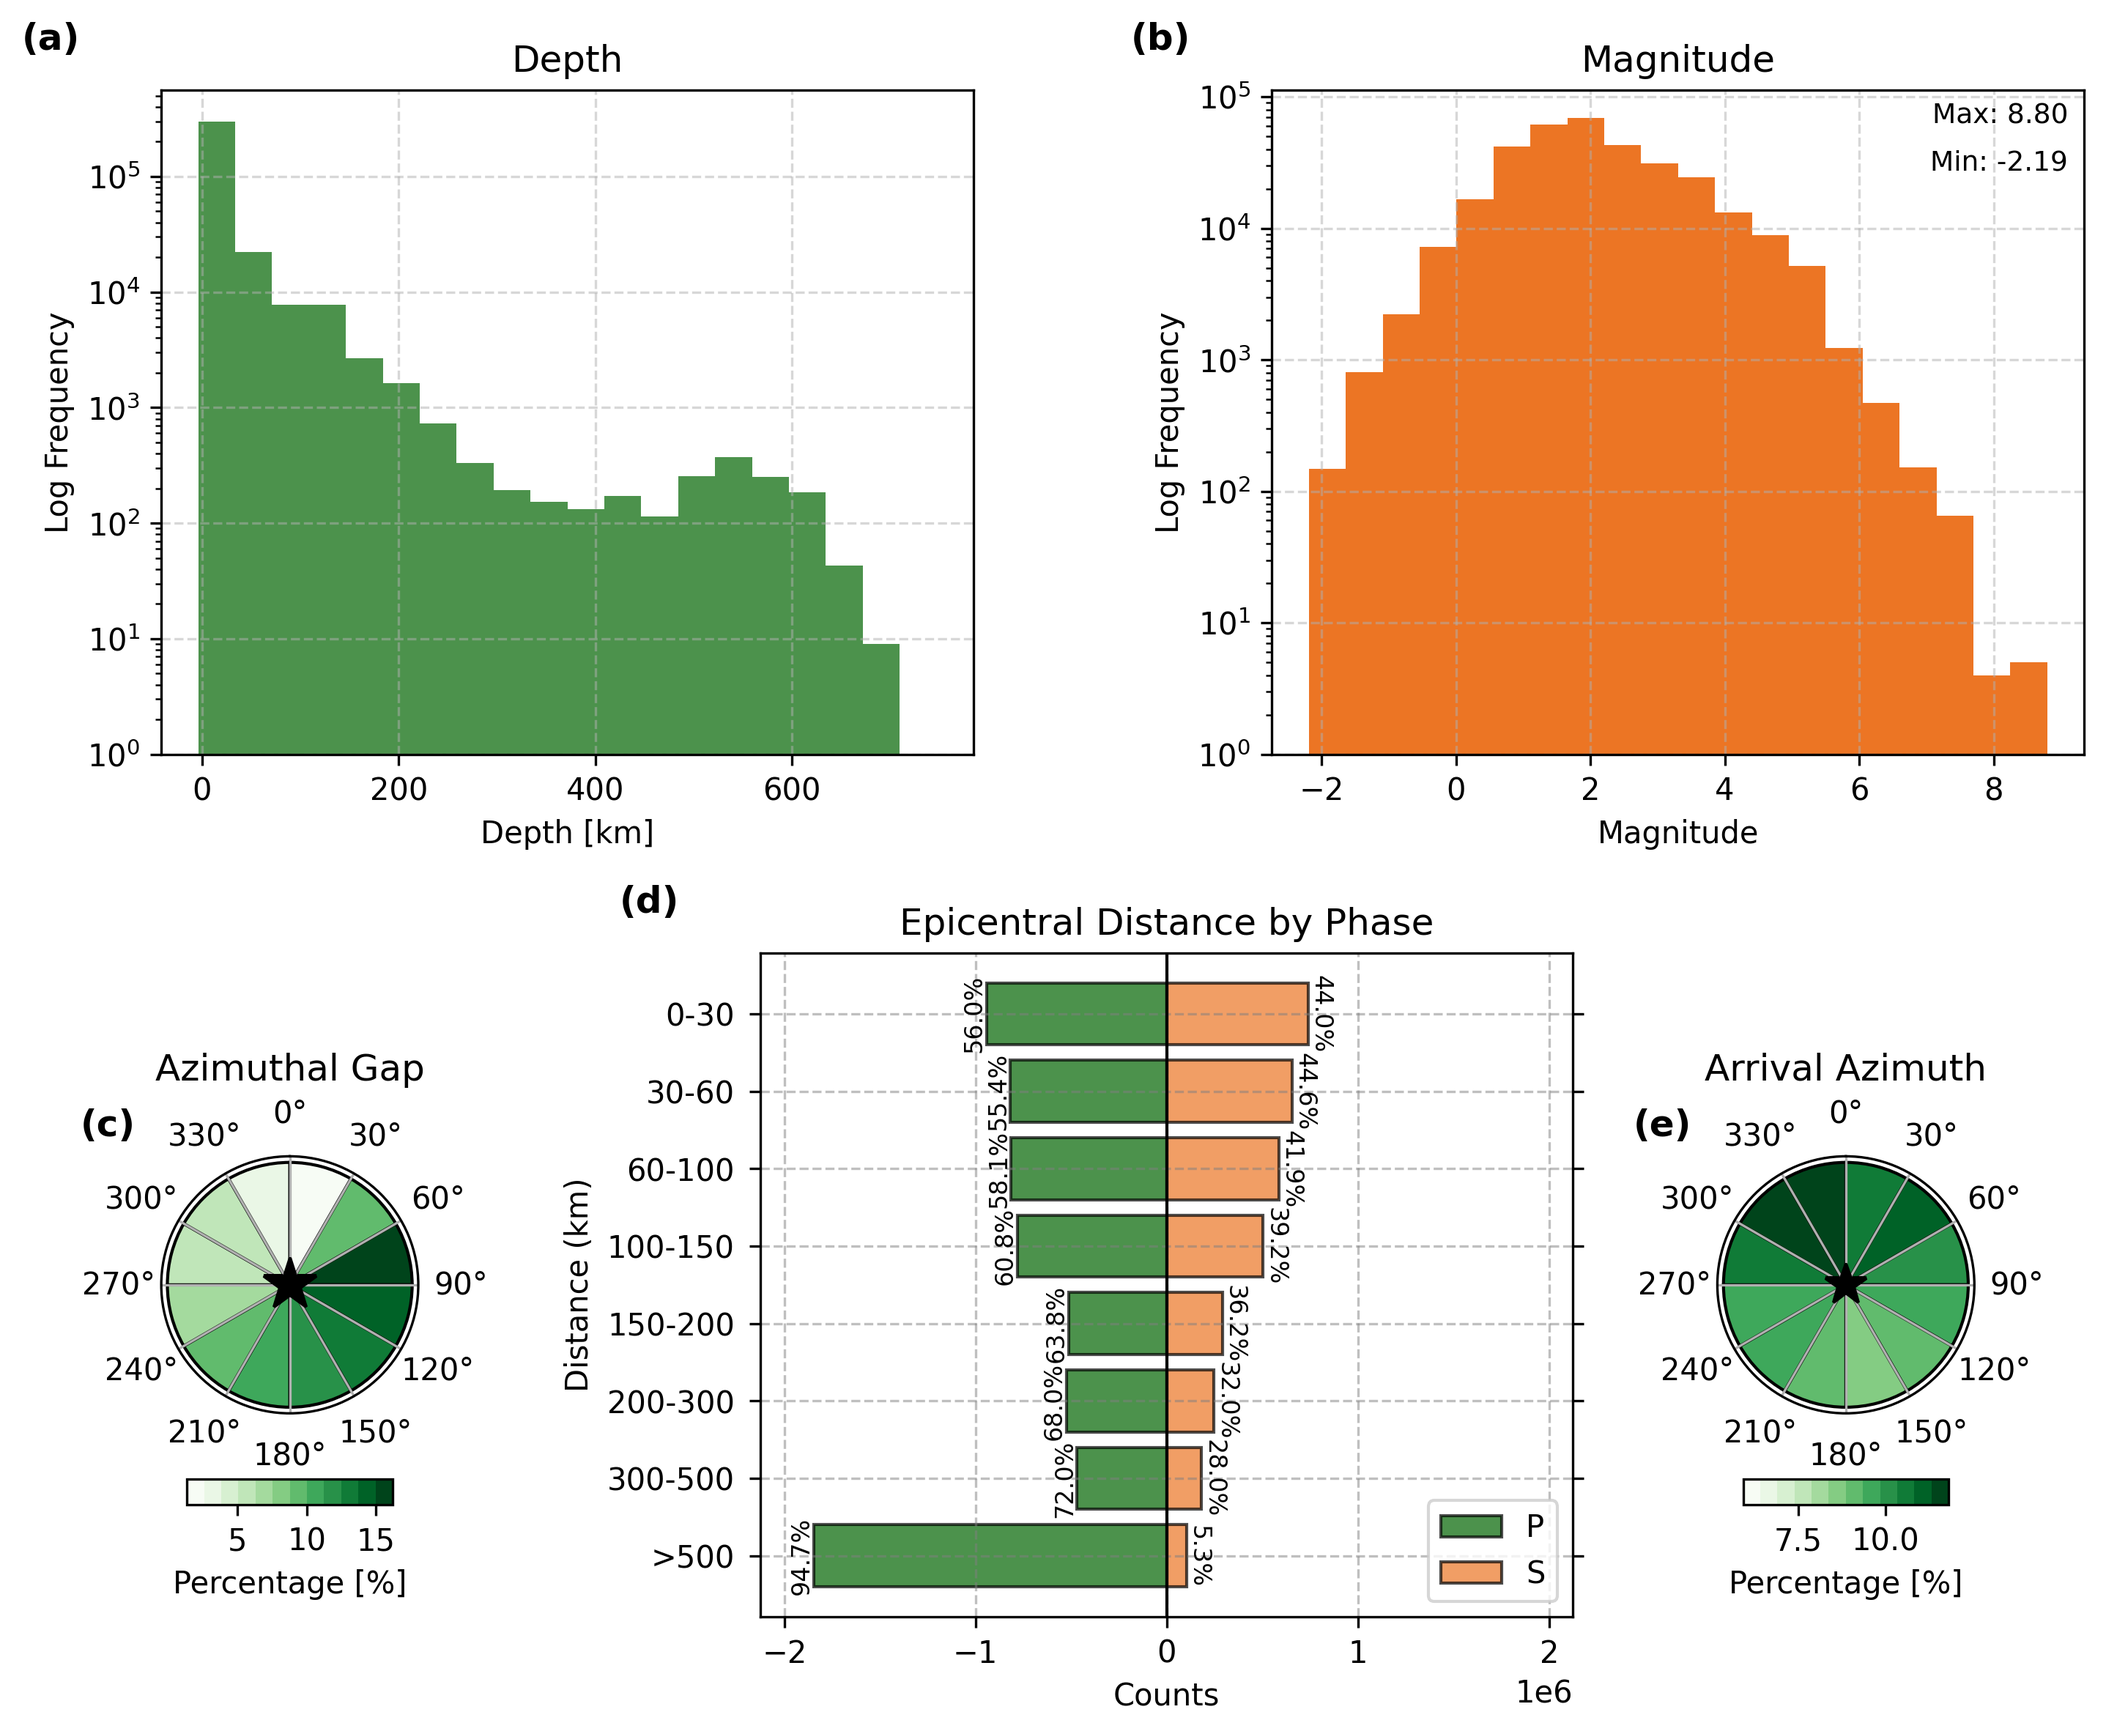
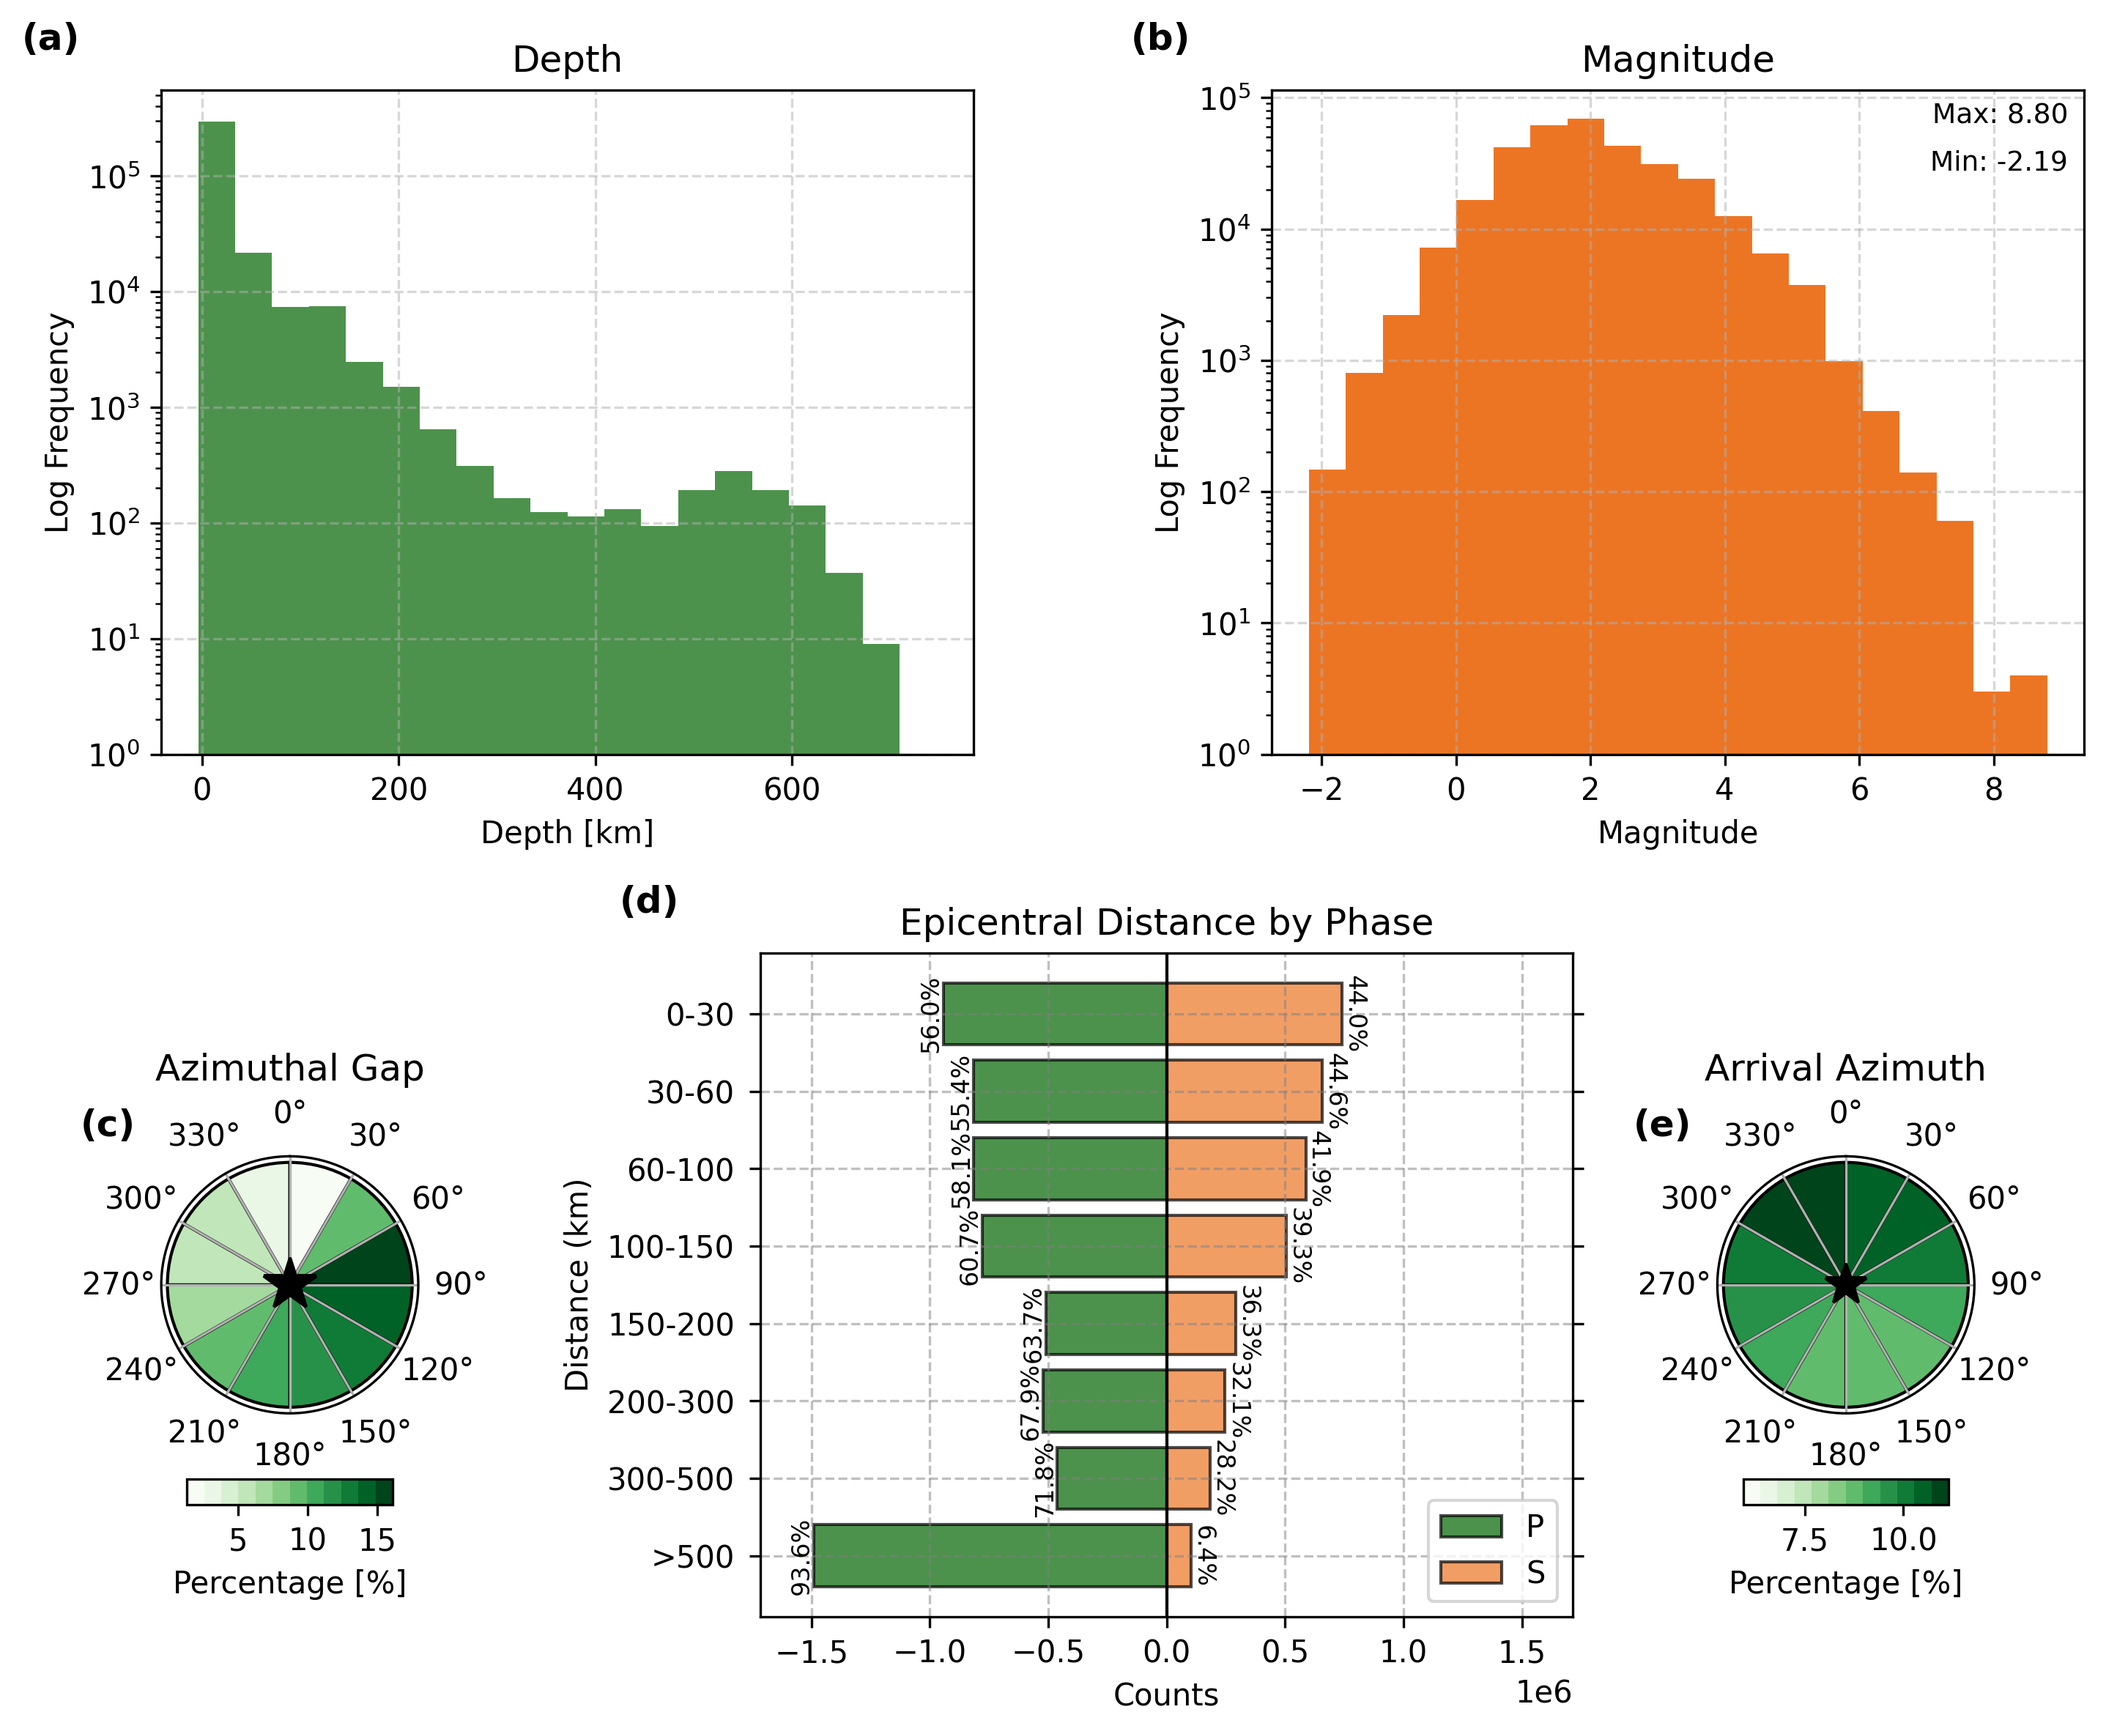
Remove GFZ (copy of GEOFON): docs, paper figures

diff --git a/docs/source/overview.rst b/docs/source/overview.rst
@@ -207,11 +207,6 @@ Seismic Data
      <a href="https://raw.githubusercontent.com/ecastillot/UTDQuake/figures/figures/networks/GEOFON/GEOFON_overview.png" target="_blank"><img src="https://raw.githubusercontent.com/ecastillot/UTDQuake/figures/figures/networks/GEOFON/GEOFON_overview.png" loading="lazy" alt="GEOFON overview"></a>
      <a class="utdq-folder" href="https://github.com/ecastillot/UTDQuake/tree/figures/figures/networks/GEOFON" target="_blank">Open folder &rarr;</a>
    </div>
-   <div class="utdq-card" data-net="GFZ" data-search="gfz isc bulletin germany world v1" data-continent="World" data-version="v1">
-     <div class="utdq-card-head"><span class="utdq-net">GFZ</span><span class="utdq-meta">ISC Bulletin &middot; Germany &middot; v1</span></div>
-     <a href="https://raw.githubusercontent.com/ecastillot/UTDQuake/figures/figures/networks/GFZ/GFZ_overview.png" target="_blank"><img src="https://raw.githubusercontent.com/ecastillot/UTDQuake/figures/figures/networks/GFZ/GFZ_overview.png" loading="lazy" alt="GFZ overview"></a>
-     <a class="utdq-folder" href="https://github.com/ecastillot/UTDQuake/tree/figures/figures/networks/GFZ" target="_blank">Open folder &rarr;</a>
-   </div>
    <div class="utdq-card" data-net="GII" data-search="gii isc bulletin israel middle east v1" data-continent="Middle East" data-version="v1">
      <div class="utdq-card-head"><span class="utdq-net">GII</span><span class="utdq-meta">ISC Bulletin &middot; Israel &middot; v1</span></div>
      <a href="https://raw.githubusercontent.com/ecastillot/UTDQuake/figures/figures/networks/GII/GII_overview.png" target="_blank"><img src="https://raw.githubusercontent.com/ecastillot/UTDQuake/figures/figures/networks/GII/GII_overview.png" loading="lazy" alt="GII overview"></a>

diff --git a/docs/source/versions.rst b/docs/source/versions.rst
@@ -76,19 +76,19 @@ The dataset of the UTDQuake paper.
      - Seismic
      - DAS
    * - UTDQuake networks
-     - 82
+     - 81
      - 1 (``UWF``)
    * - Earthquakes (after QC)
-     - 346,487
+     - 341,612
      - 450
    * - Picks
-     - 10,100,513
+     - 9,727,527
      - 7,816,115
    * - P-type picks (P / Pg / Pn)
-     - 6,754,777 (5,064,898 / 737,603 / 952,276)
+     - 6,383,659 (4,693,985 / 737,398 / 952,276)
      - 2,930,110
    * - S-type picks (S / Sg / Sn)
-     - 3,345,736 (2,423,759 / 645,592 / 276,385)
+     - 3,343,868 (2,421,891 / 645,592 / 276,385)
      - 4,886,005
    * - Stations (distinct ``network``, ``station``)
      - 17,844 (16,225 located, 15,343 confirmed)
@@ -115,6 +115,8 @@ The dataset of the UTDQuake paper.
   a few bank files not in the bank index were removed and stale index rows dropped.
 - **Networks.** The research catalogs and ``CM`` are not part of ``v1.0``; they are released, with ``R``
   codes, in ``v2.0``.
+- **GFZ removed.** ``GFZ`` was a copy of ``GEOFON`` (the same 4,875 events, picks and stations) and is no
+  longer a UTDQuake network; ``GEOFON`` keeps the data.
 
 
 v0.3

diff --git a/docs/source/installation.rst b/docs/source/installation.rst
@@ -57,7 +57,7 @@ selected from the latest release.
 
 **v1.0** *(dataset of the UTDQuake paper)*
 
-- 82 seismic networks and one DAS network (``UWF``): 346,487 earthquakes, 10.1 million P and S picks
+- 81 seismic networks and one DAS network (``UWF``): 341,612 earthquakes, 9.7 million P and S picks
   and 17,844 stations; 450 DAS earthquakes with 7.8 million picks on 22,500 channels.
 - New layout: ``utdq_net`` names each UTDQuake network, ``network`` is the FDSN code of each station and
   ``catalog`` the source catalog.
